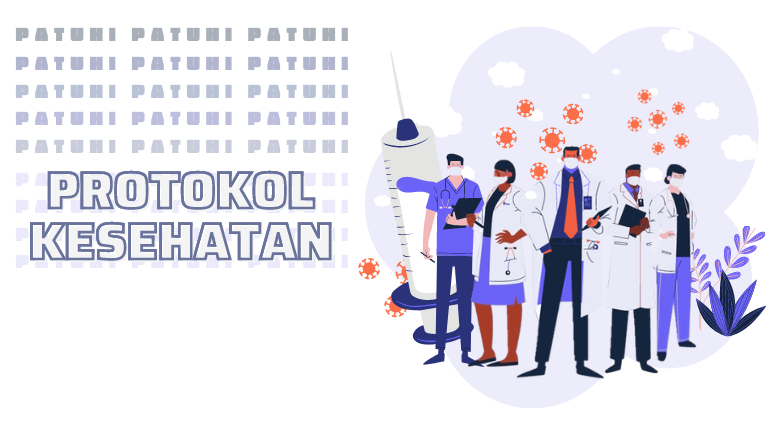
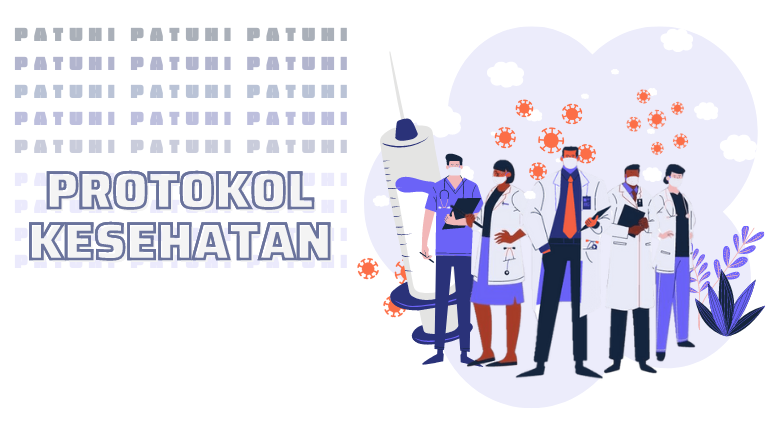
memperbaiki gambar wrapper

diff --git a/assets/css/header.css b/assets/css/header.css
@@ -49,11 +49,12 @@ li{
 }
 /*CSS untuk top-wrapper*/
 .top-wrapper{
-    padding-top:180px;
+    padding-top:380px;
     padding-bottom:100px;
     color:white;
-    background-image:url(../img/9.png);
+    background-image:url(../img/top-wrapper2.png);
     background-size:cover;   
+    background-position: center;
 }
 
 /* css content no 10 */
